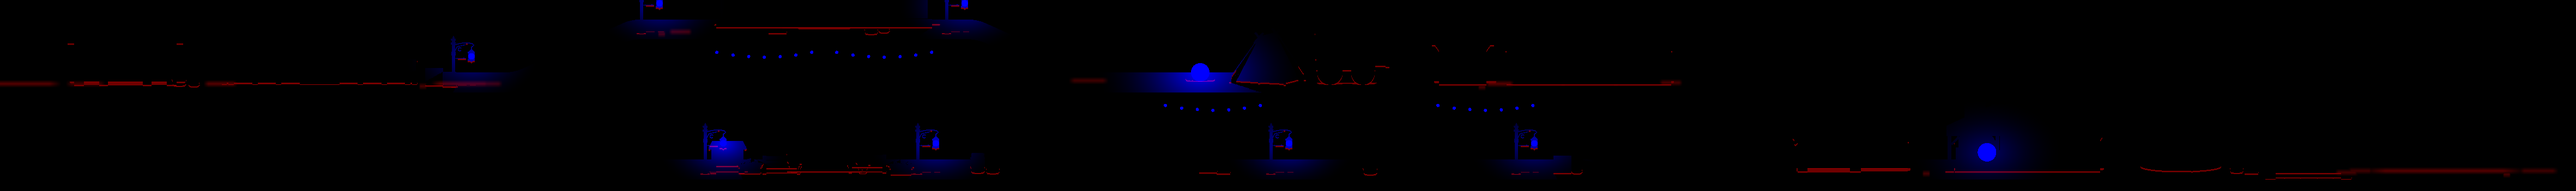
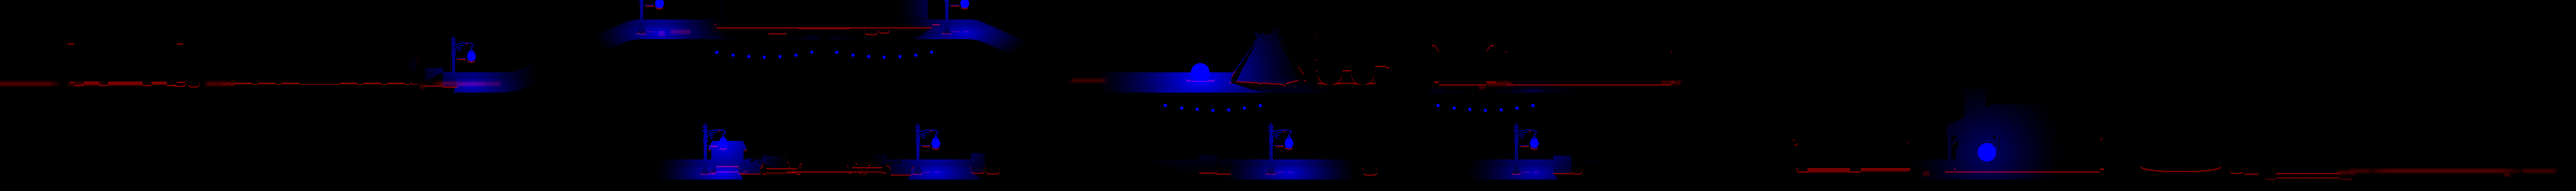
town night: lamp pools round the lamp's foot, brighter
Claude-Session: https://claude.ai/code/session_01FzDataYedfiK9tzFLcKdoU

diff --git a/tools/bake_ground_light.py b/tools/bake_ground_light.py
@@ -122,11 +122,17 @@ def maps(L):
             if kind not in ("lamp", "fire", "bulb"): continue
             R_ = r * (1.7 if kind in ("lamp", "fire") else 1.2)
             gx0, gx1 = max(0, int((lx - R_) / CX)), min(W, int((lx + R_) / CX) + 1)
-            gy0, gy1 = max(0, int((ly - R_ - Y0) / CY)), min(H, int((ly + R_ - Y0) / CY) + 1)
+            gy0, gy1 = max(0, int((ly - R_ - Y0) / CY)), min(H, int((ly + R_ + 120.0 - Y0) / CY) + 1)
             if gx1 <= gx0 or gy1 <= gy0: continue
             xs_, ys_ = X[gy0:gy1, gx0:gx1], Y[gy0:gy1, gx0:gx1]
-            d = np.hypot(xs_ - lx, (ys_ - ly) * 1.4)
-            f = np.clip(1.0 - d / R_, 0, 1) ** 2 * la
+            own0 = lab[gy0:gy1, gx0:gx1]
+            # a sprite takes the light by its distance to the light; the ground by its distance to the spot under it
+            # (owner 2026-11-08: "가로등 너무 은은하고 중심도 애매한듯": a lamp's pool lies round its foot, bright)
+            foot = ly + (110.0 if kind == "lamp" else 30.0 if kind == "fire" else 0.0)
+            ds = np.hypot(xs_ - lx, ys_ - ly)
+            dg = np.hypot(xs_ - lx, (ys_ - foot) * 2.2)
+            d = np.where(own0 > 0, ds, np.minimum(dg, ds))
+            f = np.clip(1.0 - d / R_, 0, 1) ** 1.4 * la
             # the sprites that hold the light do not block it
             host = set()
             lgx, lgy = int(lx / CX), int((ly - Y0) / CY)
@@ -154,7 +160,7 @@ def maps(L):
         # and the lights themselves (the flames, the lantern glass): not dimmed by the night
         for (kind, lx, ly, r, cr, cg, cb, la) in L["lights"]:
             if kind in ("lamp", "fire", "bulb"):
-                rr = {"fire": 34.0, "lamp": 12.0, "bulb": 6.0}[kind]
+                rr = {"fire": 34.0, "lamp": 16.0, "bulb": 6.0}[kind]
                 core = np.hypot(X - lx, Y - ly) < rr
                 surf |= core; out = np.where(core, 1.0, out)
         return np.clip(out, 0, 1) * surf

diff --git a/docs/work/town-integrate/MEMO.md b/docs/work/town-integrate/MEMO.md
@@ -42,3 +42,4 @@
 - 2026-11-08: "그니까 림라이트를 쏘라는 게, 이렇게 과하게 세게하라는 게 아님. 스프라이트를 직접 수정해서 조명에 의한 빛과 그림자를 넣으라는거임" → 적용: 화면 위 밝히기(밤 어둠 걷어내기) 뺌. 빛과 그림자는 스프라이트(놓인 자리마다 3D 밤 렌더) 안에서만: 빛 받는 면은 자기 색의 따뜻한 버전, 가까울 때만 한 단계 위; 림은 램프 가까이에서 그 면 색 그대로 따뜻하게. 바닥은 팔레트 안에서 그늘 포함 따뜻하게(예전 세기).
 - 2026-11-08: "빛이 들어오는 곳 주변의 타일과 오브젝트, 캐릭터의 스프라이트를 따로 작업해서 불에 의해 면이 아니 이걸 이렇게 설명을 해줘야해?" → 적용: 스프라이트 자체의 등불 면·림·그늘(놓인 자리마다 3D)은 그대로, 게임 밤 어둠이 그걸 덮지 않게 빛 닿는 곳만 약하게 걷어냄(최대 0.5). 타일은 팔레트 안 따뜻함+그늘, 캐릭터는 기존 림 셰이더 + 같은 걷어냄.
 - 2026-11-08: (SLYNYRD 광원 시트) "해봐" → 시안: pixel3d 노멀맵(assets/town/nrm, 알파 77 표시)을 게임에서 가로등·불이 직접 비춤(char_pix 셰이더 통과 경로): 빛 쪽 면은 팔레트에서 따뜻하게 한두 단계, 빛 쪽 테두리 림, 반대쪽은 밤 그대로. 화면 번짐(빛 덩어리·기둥) 끔, 밤 어둠 걷어냄은 점묘 없이 두 단계, 불·랜턴 자체는 안 어둡게.
+- 2026-11-08: "가로등 너무 은은하고 중심도 애매한듯" → 적용: 바닥은 등 아래 발치 기준 거리(납작한 타원)로, 스프라이트는 등까지 거리로; 감쇠 완만하게(1.4제곱), 랜턴 자체 안 어둡게 반경 16.
